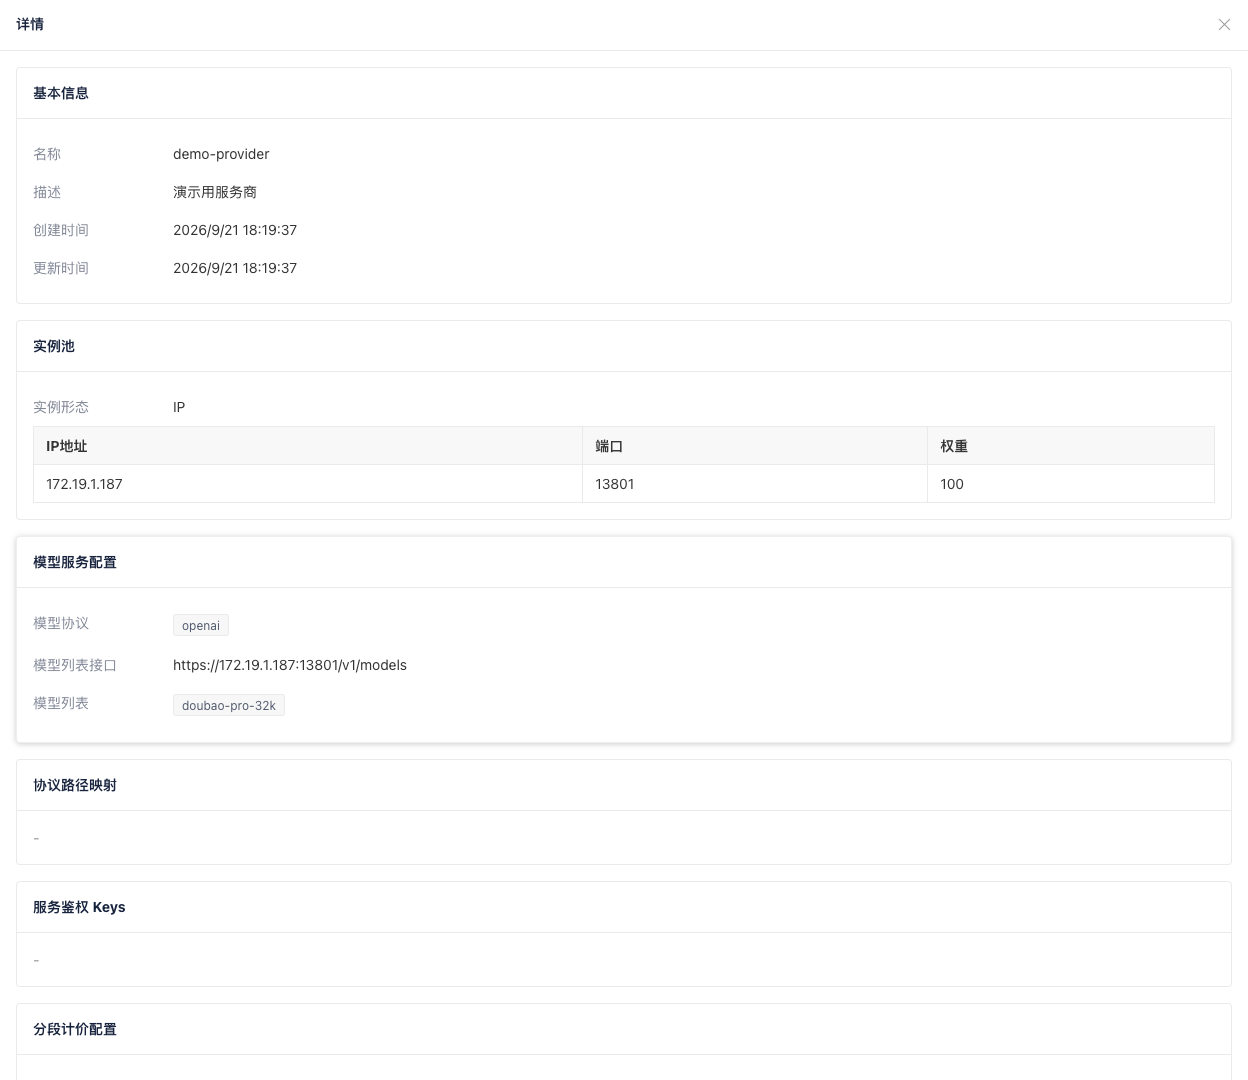
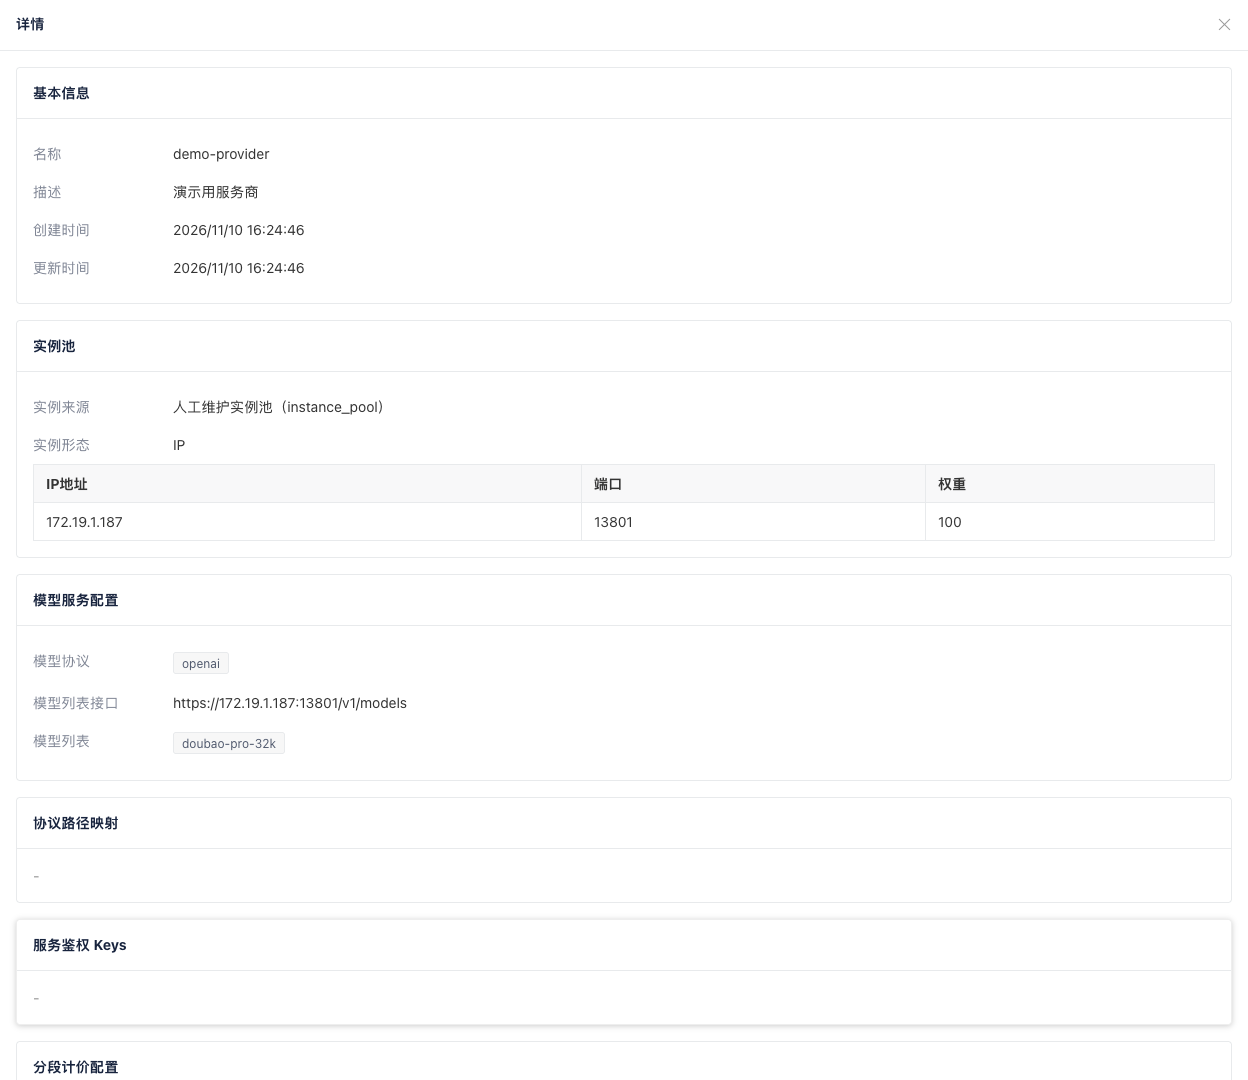
docs(manual): 补齐集群缺价/推理/错误归一、报表缺价、K8s 实例池、批量限流与配额单位口径，更新 21 张截图
- 03 章：新增「缺价处置动作」「推理内容补齐协议」「上游错误归一」三节；Key 亲和性补 429 / 401-403 惩罚时长；Key 路由策略字段名对齐界面；复查清单补全；删除集群改为 409 原样提示（不再有「前往处理」链接）
- 05 章：§5.4 补「实例来源」两模式与「K8s 实例池模式」；§5.8 详情补实例来源/实例形态
- 17 章：列数 15→16 并补「缺价」列；§17.7 字段表 23→39 项；新增缺价六形态对照；修正「抽屉不展示…」的错误结论
- 12/15 章：新增「批量限流」四维度；配额统一按百万Token / 元展示，补「配额限制」是/否、百分比封顶 100% 与重置弹窗口径
- 02/07 章：分页口径按服务端 / 游标 / 前端重写，路由表补分页说明
- 截图：按当前界面重截集群向导、服务商、API Key、Entity、报表明细与详情；新增 04-cluster-wizard-advanced.png（Key 惩罚时长 + 上游错误归一）

diff --git a/docs/zh-cn/17-report.md b/docs/zh-cn/17-report.md
@@ -156,7 +156,7 @@
 
 ## 17.5 明细页签：表格列
 
-明细页签以**服务端分页**表格展示日志，固定 **15 列**，顺序不可调整：
+明细页签以**服务端分页**表格展示日志，固定 **16 列**，顺序不可调整：
 
 | 列名 | 对应字段 | 宽度 | 展示格式 | 说明 |
 | --- | --- | --- | --- | --- |
@@ -171,6 +171,7 @@
 | TTFT | `ai_ttft_us` | 90 | `fmtUs`（μs → ms，1 位小数） | 首 Token 延迟；非流式为 0，显示 `0.0 ms` |
 | 费用 | `ai_cost_value` | 100 | `{金额} {币种}` | **数值原样输出，不做 K / M 缩写**（与总览费用卡不同） |
 | 缓存 | `ai_cache_status` | 80 | 原值 `hit` / `miss` / `skip` | 空串（未启用缓存）显示 `-` |
+| 缺价 | `ai_price_miss` | 110 | 缺价行展示缺价形态中文，红色（`#ed4014`）；未缺价显示 `-` | 位于「缓存」与「镜像」之间；形态文案见下方说明 |
 | 镜像 | `mirror_hit` | 110 | 「命中」/ `-` | 命中且镜像集群非空时显示「命中（集群名）」 |
 | 意图答案 | `ai_intent_answer` | 120 | 原值（含 `unknown`） | 意图未求值为空串，显示 `-` |
 | 错误 | `err_msg` | 最小 150 | 红色文本，超过 20 字符截断加 `…` | 无错误显示 `-` |
@@ -211,20 +212,37 @@
 | 字段 | 必填 | 默认值 | 校验规则 | 说明 |
 | --- | --- | --- | --- | --- |
 | 日志 ID（`logid`） | —（只读展示） | `-` | 空值占位 `-`；19 位整数按字符串原样展示，不做数字舍入，可直接用于日志检索对口 | 该行日志的唯一标识 |
+| 时间（`log_time`） | —（只读展示） | `-` | `yyyy-MM-dd HH:mm:ss`（秒级时间戳按本地时区格式化）；空值或非法时间占位 `-` | 日志产生时间 |
 | 主机 ID（`hostid`） | —（只读展示） | `-` | 空值占位 `-` | 主机标识 |
 | 产品线（`product`） | —（只读展示） | `-` | 空值占位 `-` | 产品标识 |
+| API Key（`ai_apikey_id`） | —（只读展示） | `-` | 空值占位 `-` | 调用方 Key ID；未认证请求为空 |
+| 请求模型（`ai_requested_model`） | —（只读展示） | `-` | 空值占位 `-` | 客户端请求的模型名（裁剪前缀 / 模型重定向之前） |
+| 目标模型（`ai_target_model`） | —（只读展示） | `-` | 空值占位 `-` | 实际转发到上游的模型名 |
+| 服务商（`ai_provider`） | —（只读展示） | `-` | 空值占位 `-` | 上游模型服务商 |
 | 协议（`ai_protocol`） | —（只读展示） | `-` | 空值占位 `-` | AI 协议 |
 | 模式（`ai_mode`） | —（只读展示） | `-` | 空值占位 `-` | AI 模式（如 `chat`） |
 | 流式（`ai_stream`） | —（只读展示） | 否 | 值为 `1` 显示「是」，否则显示「否」 | 是否流式 |
+| 状态码（`res_status_code`） | —（只读展示） | `-` | 空值占位 `-` | 响应状态码 |
 | 错误码（`err_code`） | —（只读展示） | `-` | 空值占位 `-` | 无错误时为空 |
-| 输入Tokens（`ai_input_tokens`） | —（只读展示） | `-` | `fmtNum` 格式化 | 输入 Token 数 |
-| 输出Tokens（`ai_output_tokens`） | —（只读展示） | `-` | `fmtNum` 格式化 | 输出 Token 数 |
-| TPOT（`ai_tpot_us`） | —（只读展示） | `-` | `fmtUs`（μs → ms，1 位小数） | 每 Token 延迟；非流式为 0 |
+| 错误（`err_msg`） | —（只读展示） | `-` | 空值占位 `-`；此处展示完整文本，不做截断（表格列才截断到 20 字符加 `…`） | 错误详情 |
+| 输入Tokens（`ai_input_tokens`） | —（只读展示） | `-` | `fmtNum` 格式化（≥1000 显示 `K`、≥1000000 显示 `M`） | 输入 Token 数 |
+| 输出Tokens（`ai_output_tokens`） | —（只读展示） | `-` | 同上 | 输出 Token 数 |
+| 总Tokens（`ai_total_tokens`） | —（只读展示） | `-` | 同上 | 输入 + 输出合计 |
+| 耗时（`all_time`） | —（只读展示） | `-` | `{值} ms`；空值占位 `-` | 请求总耗时 |
+| TTFT（`ai_ttft_us`） | —（只读展示） | `-` | μs → ms，1 位小数；`0` 或空值占位 `-` | 首 Token 延迟 |
+| TPOT（`ai_tpot_us`） | —（只读展示） | `-` | μs → ms，1 位小数；`0` 或空值占位 `-` | 每 Token 延迟；非流式为 0，故显示 `-` |
+| 费用（`ai_cost_value` + `ai_cost_currency`） | —（只读展示） | `-` | `{金额} {币种}`，数值原样输出（不做 K / M 缩写）；空值占位 `-` | 本次请求费用 |
 | 一级归类（`level1Name` / `level1`） | —（只读展示） | `-` | 形如「标签名 = 标签值」，任一侧为空则显示 `-` | API Key 一级标签的名称与取值 |
+| 二级归类（`level2Name` / `level2`） | —（只读展示） | `-` | 同上 | API Key 二级标签 |
+| 三级归类（`level3Name` / `level3`） | —（只读展示） | `-` | 同上 | API Key 三级标签 |
+| 四级归类（`level4Name` / `level4`） | —（只读展示） | `-` | 同上 | API Key 四级标签 |
+| 五级归类（`level5Name` / `level5`） | —（只读展示） | `-` | 同上 | API Key 五级标签 |
 | 客户端IP（`client_ip`） | —（只读展示） | `-` | 空值占位 `-` | 客户端来源 IP |
 | Header Host（`header_host`） | —（只读展示） | `-` | 空值占位 `-` | 请求 Host |
 | 原始URI（`origin_uri`） | —（只读展示） | `-` | 空值占位 `-` | 原始请求路径 |
 | 缓存状态（`ai_cache_status`） | —（只读展示） | `-` | 空值与空串均占位 `-` | `hit` / `miss` / `skip`；空串表示未启用缓存 |
+| 是否缺价（`ai_price_miss`） | —（只读展示） | `-` | `null` → `-`；`true` → 是；`false` → 否 | 本次请求是否命中「缺定价接口」，口径同表格「缺价」列 |
+| 缺价形态（`ai_price_warn`） | —（只读展示） | `-` | `null` → `-`；否则按六形态枚举映射中文（见下） | 缺价成因标注 |
 | 镜像命中（`mirror_hit` / `mirror_cluster`） | —（只读展示） | 否 | 命中显示「是」、未命中显示「否」；命中且集群非空时追加「（集群名）」 | 是否被流量镜像 |
 | 意图问题（`ai_intent_question`） | —（只读展示） | `-` | 空值与空串均占位 `-` | 路由实际消费的问题名 |
 | 意图答案（`ai_intent_answer`） | —（只读展示） | `-` | 空值与空串均占位 `-` | 分类答案（含 `unknown`） |
@@ -236,6 +254,19 @@
 
 > 本页为只读展示，字段没有「必填 / 默认值」概念；上表第三、四列给的是**界面展示规则**（空值占位与格式化口径），用于逐字段核对界面与接口数据。
 
+**缺价形态（`ai_price_warn`）六种取值**（表格「缺价」列与抽屉「缺价形态」同一口径；多种原因同时命中时取最具体的一种）：
+
+| 取值 | 界面文案 | 含义 |
+| --- | --- | --- |
+| `fallback` | 回退 chat 价计费 | 该接口无定价，按同模型 chat 价计费 |
+| `no_entry` | 按 0 计费 | 缺价按 0 计费 |
+| `no_baseline` | 无 chat 基线按 0 | chat 接口自身缺价，无回退基线 |
+| `reject` | 转发前拒绝 | 集群配置为缺价即拒（`price_miss_action=reject`） |
+| `subitem_missing` | 回退条目缺子项价格 | 回退用的 chat 条目缺输入 / 输出等子项价格 |
+| `no_model_table` | 价格表缺失 | 该模型整张价格表缺失 |
+
+> 形态取决于集群的「缺价处置动作」（见 [03 章 3.6](03-ai-business-cluster.md#36-步骤-4大模型配置)）。
+
 抽屉底部是 **4 个 JSON 字段折叠区**，按固定顺序渲染，**默认折叠**，点字段名展开 / 收起，多个字段可各自独立展开：
 
 | 字段 | 内容 | 展示方式 |
@@ -246,7 +277,7 @@
 | `res_headers` | 响应头列表 JSON | 同上 |
 
 - 仅当该字段非空（`null` 之外）时才渲染对应折叠块；为空的行不出现，避免空标题占位。
-- 抽屉**不展示**请求模型、目标模型、服务商、状态码、耗时、费用、TTFT、二级及以下标签（`level2`~`level5`）等字段；这些只在表格列或接口返回中出现。
+- 抽屉展示的字段**多于表格列**：请求模型、目标模型、服务商、状态码、耗时、费用、TTFT、二级至五级归类（`level2`~`level5`）、是否缺价 / 缺价形态等都只在抽屉里出现，表格列不展示它们。
 
 ![数据报表 - 明细行详情与 JSON 展开](images/14-report-detail-expand.png)
 

diff --git a/docs/zh-cn/03-ai-business-cluster.md b/docs/zh-cn/03-ai-business-cluster.md
@@ -36,7 +36,7 @@
 
 点击「删除」，弹出确认框。确认后删除成功并刷新列表。
 
-**被路由规则引用时**：弹出失败提示，说明被哪张路由表、哪条规则引用，并提供「前往处理」链接。需先在路由表中解除引用。
+**被路由规则引用时**：删除被后端拒绝，接口返回 `409` 与「集群被转发规则 {规则名} 引用」；界面以错误通知原样展示该信息，需先在对应路由表中解除引用后重试。**界面不提供跳转到引用规则的快捷入口**。
 
 ## 3.2 创建 / 编辑集群
 
@@ -116,6 +116,36 @@
 | 裁剪前缀 | 否 | 开关；用于 OpenRouter 等聚合场景 |
 | 匹配前缀 | 条件必填 | 开启裁剪前缀时必填，须以 `/` 结尾，如 `openrouter/` |
 
+### 缺价处置动作
+
+请求的（模型，接口类型）组合**没有价格条目**时的处置方式，位于「匹配前缀」之后。
+
+| 字段 | 必填 | 默认值 | 可选值 | 说明 |
+| --- | --- | --- | --- | --- |
+| 缺价处置动作 | 否 | `fallback_chat`（回退 chat 价计费） | `fallback_chat` / `bill_zero` / `reject` | 下拉固定三选一，不可自由输入 |
+
+| 取值 | 行为 |
+| --- | --- |
+| `fallback_chat`（默认） | 非 chat 接口缺价时按同模型的 **chat 价**计费（历史行为）；`chat` 接口自身缺价时无回退基线，仍按 0 计费，并计入缺价信号 |
+| `bill_zero` | 缺价按 0 计费，仍打缺价信号（报表「缺价」列可见形态） |
+| `reject` | **转发前拒绝**：HTTP 503 + `error.code=PRICE_NOT_CONFIGURED`，不调用上游、不计费；集群价格表整体缺失同样按「未定价」拒绝 |
+
+- 新建集群**显式提交**该字段（不省略）；编辑存量集群时若后端无该字段，回显默认 `fallback_chat`。
+- 复查&检查与详情抽屉展示中文短文案：回退 chat 价计费 / 按 0 计费 / 转发前拒绝。
+- 只决定缺价时的计费口径，**不做价格覆盖度校验**：价格表缺失不会阻止保存集群。
+
+### 推理内容补齐协议
+
+部分思考模式上游要求「最后一条 user 消息之后的 assistant 消息」回传 `reasoning_content`，而它自身存在不产出 reasoning 的回合。开启后网关在转发请求体里为这些 assistant 消息补空值，**只增不改**，异常原样透传。
+
+| 字段 | 必填 | 默认值 | 可选值 | 说明 |
+| --- | --- | --- | --- | --- |
+| 推理内容补齐协议 | 否 | 空选（= 关闭） | 多选 `openai` / `anthropic` | `openai`：在 assistant 消息上补 `"reasoning_content": ""`；`anthropic`：在 assistant `content` 数组头部插入空 thinking 块；`gemini` 不在可选项内（请求体无该落点） |
+
+- 元素不得为空、不得重复；须在**所属服务商的模型协议**（`model_protocols`）范围内，服务商未声明协议时按 `["openai"]` 对待；越界选择在切换时被前端拦截，绕过前端提交返回 `422`。
+- 空选表示关闭；提交时恒带该字段（空数组 = 关闭）。`PATCH /clusters/{name}` 的 `llm_config` 为整体替换语义，省略该字段等价于清空。
+- 复查&检查与详情抽屉按数组 join 展示（如 `anthropic, openai`），空数组展示 `-`。
+
 ### 模型重定向
 
 将客户端请求的模型名映射为转发到后端的模型名。选择「转发的后端模型名称」后，若「原请求的模型名称」为空，会自动填入同名，之后仍可修改。原模型名不能重复；目标模型须从「转发模型」已选项中选择。
@@ -139,8 +169,8 @@
 | --- | --- | --- |
 | 策略 | `weighted_random` | 本版仅支持加权随机 |
 | 最大重试次数 | `0` | 请求失败后的 Key 级重试 |
-| 退避初始值(ms) | `500` | 重试退避初始等待 |
-| 退避最大值(ms) | `5000` | 须 ≥ 退避初始值 |
+| 初始退避时间(ms) | `500` | 重试退避的初始等待 |
+| 最大退避时间(ms) | `5000` | 须 ≥ 初始退避时间 |
 
 ### Key 亲和性
 
@@ -148,14 +178,33 @@
 | --- | --- | --- |
 | 是否启用 | 启用 | 开启后同一会话请求绑定同一 Key，避免会话内 Key 漂移 |
 | 空闲超时(秒) | — | 启用时必填，须为大于 0 的整数 |
-| Key 惩罚 | 停用 | 开启后失败 Key 被临时降权 |
+| Key 惩罚 | 停用 | 开启后失败 Key 被临时降权，降权窗口由下面两项分别控制 |
+| 429 惩罚时长(秒) | `60` | 启用「Key 惩罚」时展示；10-600 的整数；`0` 不表示关闭（最小值 10） |
+| 401/402/403 惩罚时长(秒) | `300` | 启用「Key 惩罚」时展示；60-1800 的整数；`0` 不表示关闭 |
 | Redis Key 前缀 | `bfe:ai:key_affinity` | 启用时必填；依赖数据面 Redis 配置 |
 
 > Key 亲和性需数据面配置可用 Redis；Redis 不可用时自动降级为加权随机。
 
+### 上游错误归一
+
+位于「Key 亲和性」卡片之后，用于把上游 4xx/5xx 错误重写为统一的 OpenAI 兼容错误体。**缺省关闭**（上游错误原样透传）。
+
+![Key 亲和性惩罚时长与上游错误归一](images/04-cluster-wizard-advanced.png)
+
+| 字段 | 必填 | 默认值 | 校验规则 | 说明 |
+| --- | --- | --- | --- | --- |
+| 是否启用 | 否 | 关闭 | 布尔 | 开启后上游 4xx/5xx 错误重写为统一错误体，状态码按统一映射表重映射（如上游 401/402/403 → 502 `UPSTREAM_AUTH_ERROR`） |
+| 流式归一(SSE) | 否 | 关闭 | 布尔 | 独立于非流式归一开关灰度：开启后流内错误事件的 `data` 载荷改写为统一错误 JSON（响应状态保持 200） |
+| 凭证脱敏 | 否 | 启用 | 布尔 | 外发错误内容中出现的本集群 API-Key 各编码形态（原文 / base64 / URL 编码 / JSON 转义）替换为掩码 `••••••••`；关闭后不做替换 |
+| 未识别错误体处理 | 条件必填 | `passthrough` | `passthrough` / `rewrite_generic` | 仅「是否启用」开启时展示：`passthrough` 原样透传（仍做凭证脱敏）；`rewrite_generic` 重写为 `UPSTREAM_UNKNOWN` 通用错误；流式未识别事件始终透传 |
+| 错误响应体读取上限(字节) | 条件必填 | `65536` | 0-4194304 的整数 | 仅「是否启用」开启时展示；超过上限的错误体按「未识别」处理；填 `0` 或缺省时用 BFE 默认 65536 |
+
+- 五个字段随集群一起提交（`llm_config.normalize_upstream_error`）；即使未启用也提交 `enabled=false` 与其余默认值，不省略整块。
+- 复查&检查与详情抽屉按卡片块展示：始终展示前三项（启用 / 停用），「是否启用」开启后才追加未识别错误体处理与读取上限；整块缺省时展示 `-`。
+
 ### 均衡模式配置
 
-位于「Key 亲和性」卡片之后，用于选择集群的**后端负载均衡模式**。
+位于「上游错误归一」卡片之后，用于选择集群的**后端负载均衡模式**。
 
 | 字段 | 必填 | 默认值 | 校验规则 | 说明 |
 | --- | --- | --- | --- | --- |
@@ -238,7 +287,7 @@
 | 基础配置 | 名称、说明、协议、连接与会话保持相关项 |
 | 超时和重传 | 各项超时与集群内重试 |
 | 被动健康检查 | 阈值、间隔、Host（空时展示「为空时使用所属服务商首个实例地址」）、Uri、状态码 |
-| 大模型配置 | 所属服务商、转发模型、裁剪前缀、模型重定向、Keys 权重、Key 路由策略、Key 亲和性、均衡模式配置（EPP 模式含 [EPP 运行时参数](#epp-运行时参数)，未配置时显示「未配置（BFE 补默认）」） |
+| 大模型配置 | 所属服务商、转发模型、裁剪前缀、匹配前缀、缺价处置动作、推理内容补齐协议、模型重定向、Keys 权重、Key 路由策略、Key 亲和性（含 429 / 401-403 惩罚时长）、上游错误归一、均衡模式配置（EPP 模式含 [EPP 运行时参数](#epp-运行时参数)，未配置时显示「未配置（BFE 补默认）」） |
 
 ## 3.8 注意事项
 

diff --git a/docs/zh-cn/05-model-provider.md b/docs/zh-cn/05-model-provider.md
@@ -64,7 +64,14 @@
 
 ## 5.4 实例池
 
-与旧版集群向导中的「实例配置」相同，支持 **IP 模式** 与 **服务商域名模式** 二选一。
+实例池决定「请求最终打到哪些后端地址」。卡片顶部先选**实例来源**，再按来源填写具体地址。
+
+| 实例来源 | 取值 | 说明 |
+| --- | --- | --- |
+| 人工维护实例池 | `instance_pool`（默认） | 在控制台手工维护地址与权重，见下文「IP 模式 / 服务商域名模式」 |
+| K8s 实例池 | `k8s_pool` | 后端地址来自平台已注册的 K8s 实例池，只需选择池名，见下文「K8s 实例池模式」 |
+
+> 切换实例来源不会丢数据：切到 `k8s_pool` 时手工维护的实例暂存，切回 `instance_pool` 后恢复。
 
 ### IP 模式（默认）
 
@@ -83,6 +90,18 @@
 | 字段 | 必填 | 说明 |
 | --- | --- | --- |
 | 服务商域名 | 是 | 如 `api.deepseek.com` |
+
+### K8s 实例池模式
+
+「实例来源」选 **K8s 实例池（`k8s_pool`）** 后，卡片只保留一个下拉，实例地址与权重由所选池提供。
+
+| 字段 | 必填 | 默认值 | 校验规则 | 说明 |
+| --- | --- | --- | --- | --- |
+| K8s 池名称 | 是 | 空 | 必选一个已注册的池 | 下拉选项来自平台已注册的 K8s 实例池（`GET k8s_pools`），支持输入过滤 |
+
+- 无任何可用池时下拉只显示「暂无可用的 K8s 实例池」且不可选，需先在平台侧注册实例池。
+- 服务商引用的池**已不存在**时，下拉保留该池名并追加「（池不存在）」，需尽快改为有效池。
+- 详情抽屉展示池名与池内实例（地址 / 端口 / 权重）；池不存在显示「K8s 池不存在（≡ 零实例）」，池存在但无实例显示「暂无镜像实例（池不存在 ≡ 零实例）」，两种情况都等价于零个后端。
 
 ## 5.5 模型服务配置
 
@@ -158,6 +177,8 @@
 ## 5.8 查看详情
 
 点击「详情」打开只读抽屉，展示基本信息（含创建时间、更新时间）、实例池、模型服务配置（模型协议、模型列表接口、模型列表）、协议路径映射、服务鉴权 Keys（Key 值脱敏），以及分段计价配置摘要（时区、忙时时间段表；未配置时显示「未配置」）。
+
+其中实例池区块先展示**实例来源**（人工维护实例池 / K8s 实例池）：K8s 来源展示 K8s 池名称与池内实例（地址 / 端口 / 权重），人工来源展示**实例形态**（IP 模式 / 服务商域名模式）与实例地址表。
 
 ![服务商详情](images/04-provider-view.png)
 

diff --git a/docs/zh-cn/02-overview.md b/docs/zh-cn/02-overview.md
@@ -35,7 +35,7 @@ AI 网关
 
 ## 2.2 通用交互约定
 
-- **列表页**：搜索区 + 操作按钮 + 表格 + 分页；多数列表为前端分页、支持「20 条/页」切换；模型定价为服务端分页，默认 50 条/页，可切换 20 / 50 / 100 / 200 / 500 / 1000 条/页，操作日志与数据报表明细默认 20 条/页；
+- **列表页**：搜索区 + 操作按钮 + 表格 + 分页。分页有两种口径——**服务端分页**（翻页即带 `page` / `page_size` 重新请求）：模型定价（默认 50 条/页，可切 20 / 50 / 100 / 200 / 500 / 1000）、API Key（默认 20 条/页，可切 20 / 30 / 40 / 50）、路由表（默认 20 条/页，可切 20 / 30 / 40 / 50）、操作日志（默认 20 条/页）、数据报表明细（默认 20 条/页，可切 20 / 30 / 40 / 50）、密钥收敛；批量任务为**游标分页**（每页 50 条，不可切换，见 [13 章](13-batch-tasks.md)）；其余列表（AI业务集群、模型服务商、Entity、缓存 / 镜像 / 意图 / 上下文规则等）为**前端分页**，一次取全量后在本地翻页；
 - **卡片**：配置项 / 字段组以卡片分区呈现，卡片标题仅作分组说明，不承担操作入口；
 - **卡片折叠**：当前版本的卡片不提供折叠交互（标题不可点击展开 / 收起），卡片内容始终展开显示；
 - **抽屉表单**：创建 / 编辑在右侧抽屉完成，底部「提交 / 取消」（向导类为「下一步 / 上一步」）；

diff --git a/docs/zh-cn/07-route.md b/docs/zh-cn/07-route.md
@@ -27,6 +27,8 @@
 | 状态 | 启用 / 停用，支持下拉筛选 |
 | 操作 | 查看、启用 / 停用 |
 
+**分页**：服务端分页，默认每页 **20** 条，可切换 **20 / 30 / 40 / 50** 条/页；翻页与切换每页条数都会带当前筛选条件重新请求。
+
 **状态切换**：点击「启用」或「停用」按钮可切换路由表状态。路由表停用后该表规则不再生效，流量回落到下一优先级路由表。
 
 **自动创建**：API-Key 创建后会自动生成属主为该 Key 的 apikey 路由表（见 [12 章](12-api-key.md)）。
